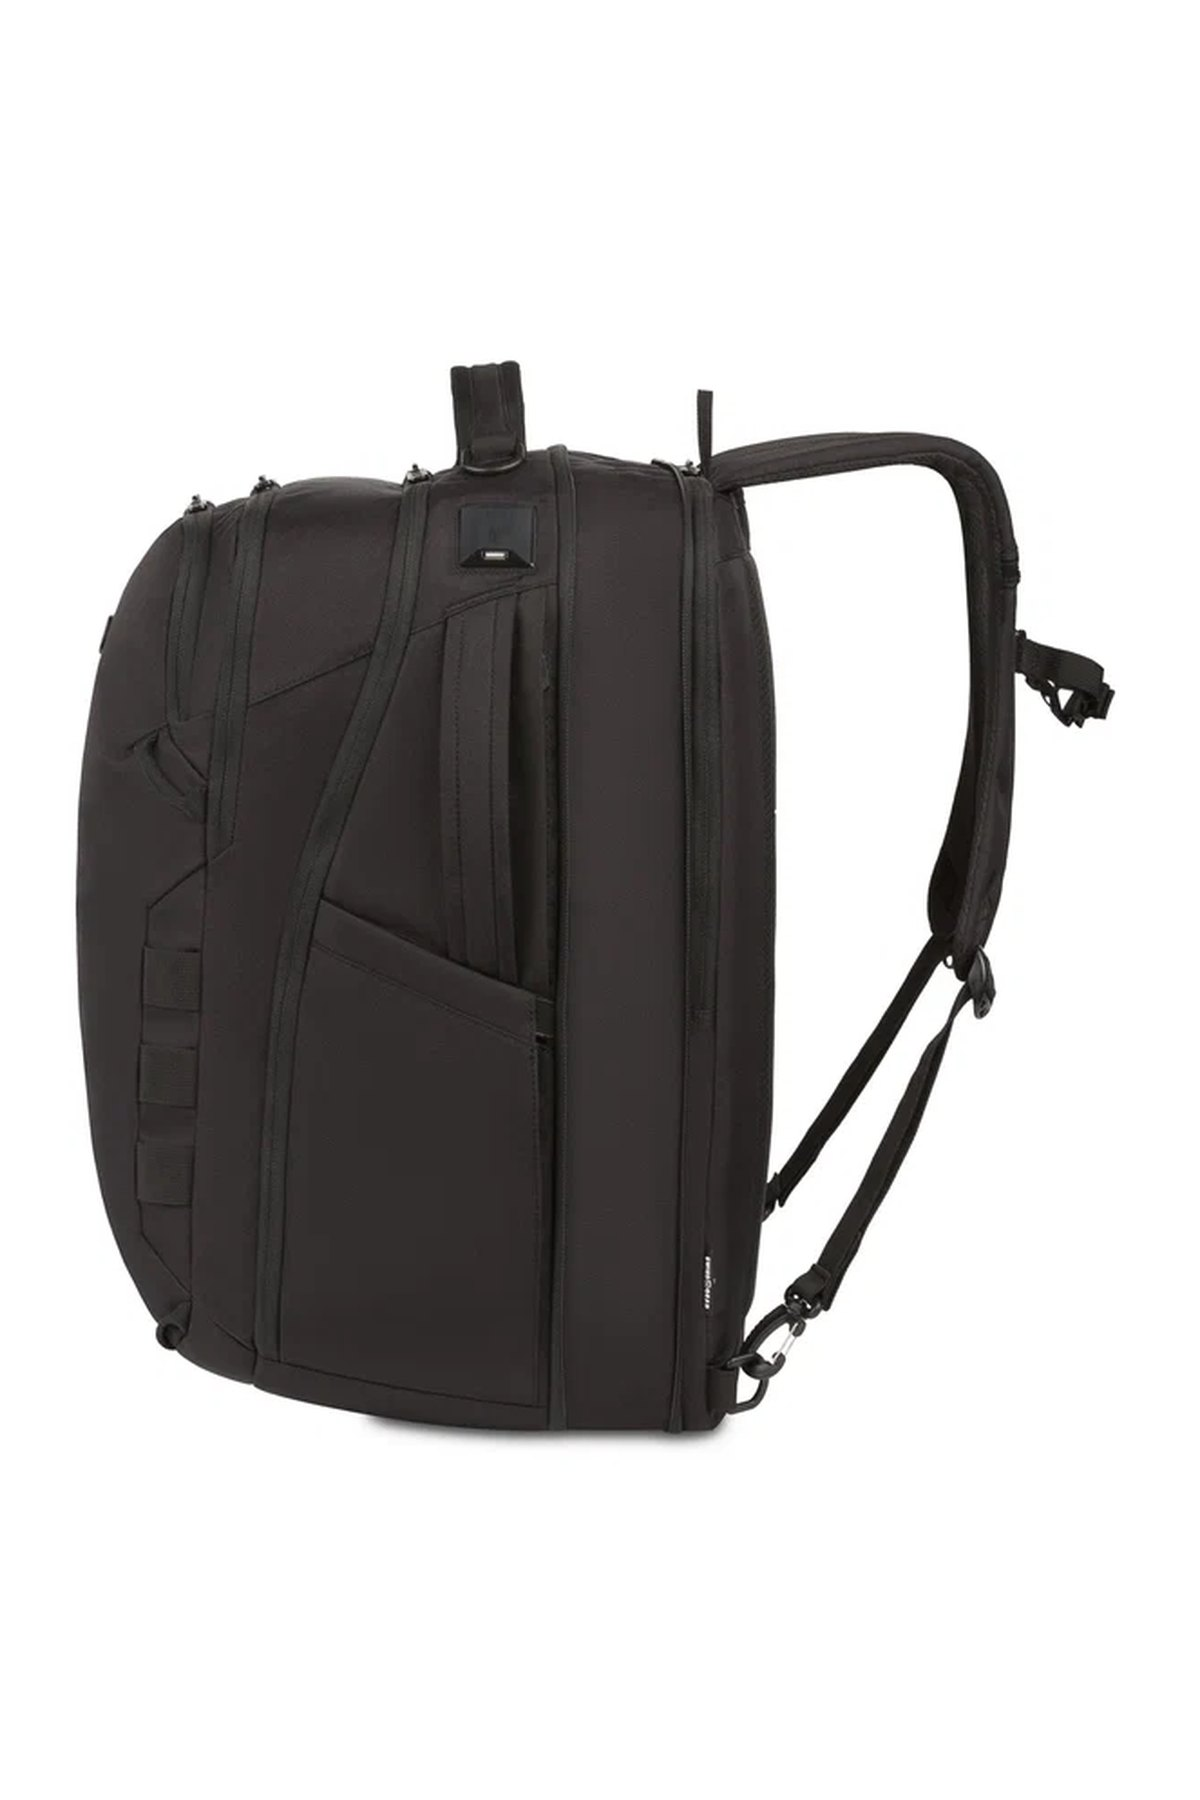
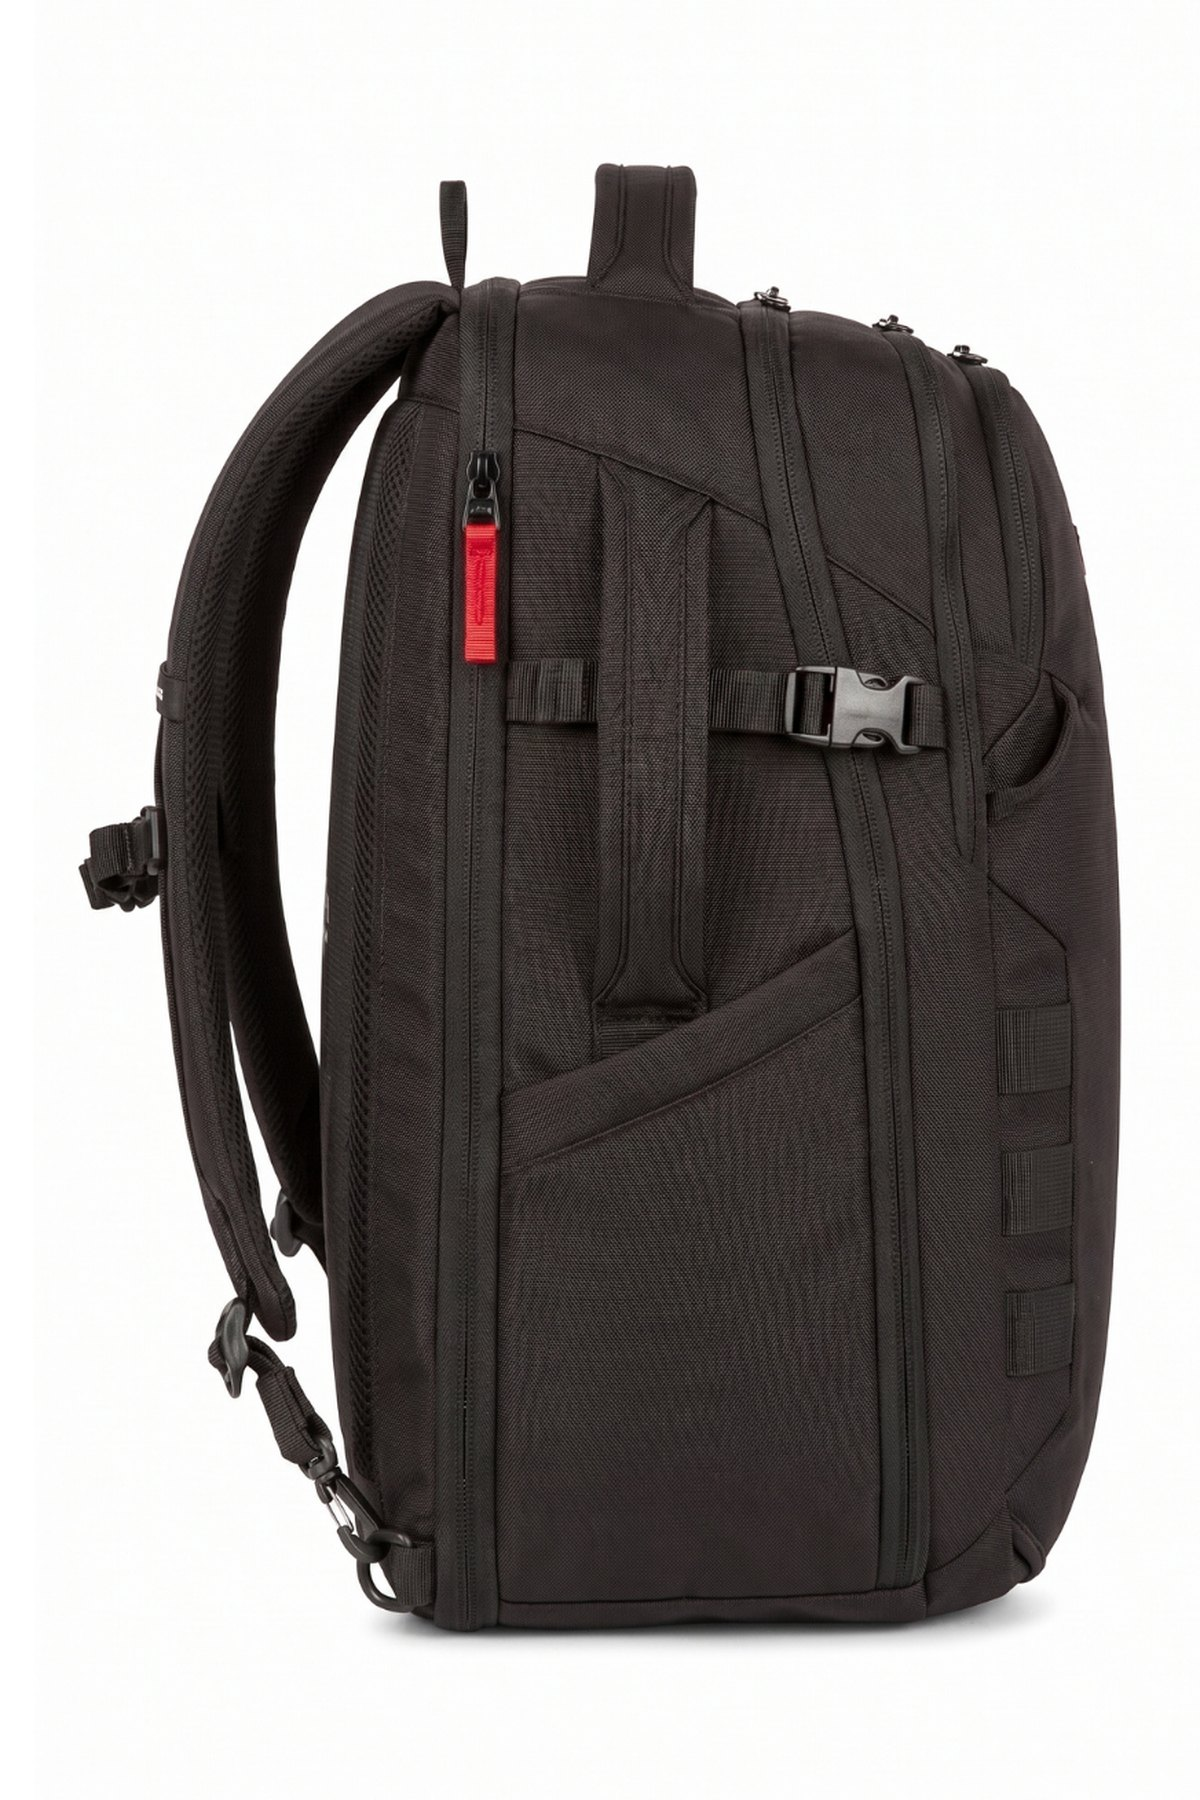
Usar la foto espejada como costado izquierdo del 360
"Diseno sin titulo (10).png" es la foto del costado derecho volteada en
horizontal: al espejar la anterior y compararlas, la diferencia media cae de
59.1 a 6.2, una decima parte. No es una toma del otro lado.

El usuario decidio usarla igual, y hace su trabajo: con la mochila mirando al
lado contrario que en 03, arrastrar el visor por fin se lee como una rotacion y
no como un salto entre dos fotos iguales.

- Se procesa como 01.jpg con el mismo encuadre que las otras dos (1200x1800,
  mochila al 86%, 293KB) y se borra el original de 1.6MB de public.
- Las tres zonas del costado izquierdo pasan a la mitad derecha del encuadre,
  que es donde queda el costado en esta vista. Verificado con ?zones=1: caen
  sobre tela limpia, esquivando el jalador rojo, la hebilla y la costura
  diagonal.

Queda anotado que el MOLLE y el jalador rojo salen espejados, asi que ese
costado muestra detalles que quiza no tenga. Reemplazar 01.jpg por una foto real
del otro lado no requiere tocar codigo, solo reubicar las tres zonas.

Claude-Session: https://claude.ai/code/session_01LXY9TbeoNzeHppz7iZdY8X

diff --git a/src/lib/pack-frames.ts b/src/lib/pack-frames.ts
@@ -36,13 +36,14 @@ export interface PackFrame {
 
 export const FRAMES: PackFrame[] = [
   {
-    // Perfil izquierdo: se ve el costado completo, no el panel frontal.
+    // Perfil izquierdo. La mochila mira al otro lado que en 03, asi que las
+    // zonas caen en la mitad derecha del encuadre.
     src: "/pack/360/01.jpg",
     label: "Left side",
     zones: {
-      left_top: { x: 30, y: 37, w: 17, h: 6, rotate: 2, skew: 2 },
-      left_mid: { x: 38, y: 46, w: 16, h: 6, rotate: 2, skew: 2 },
-      left_bottom: { x: 37, y: 69, w: 17, h: 6, rotate: 2, skew: 2 },
+      left_top: { x: 58, y: 28, w: 17, h: 6, rotate: 1, skew: 2 },
+      left_mid: { x: 60, y: 48, w: 16, h: 6, rotate: 1, skew: 2 },
+      left_bottom: { x: 62, y: 74, w: 17, h: 6, rotate: 1, skew: 2 },
     },
   },
   {
